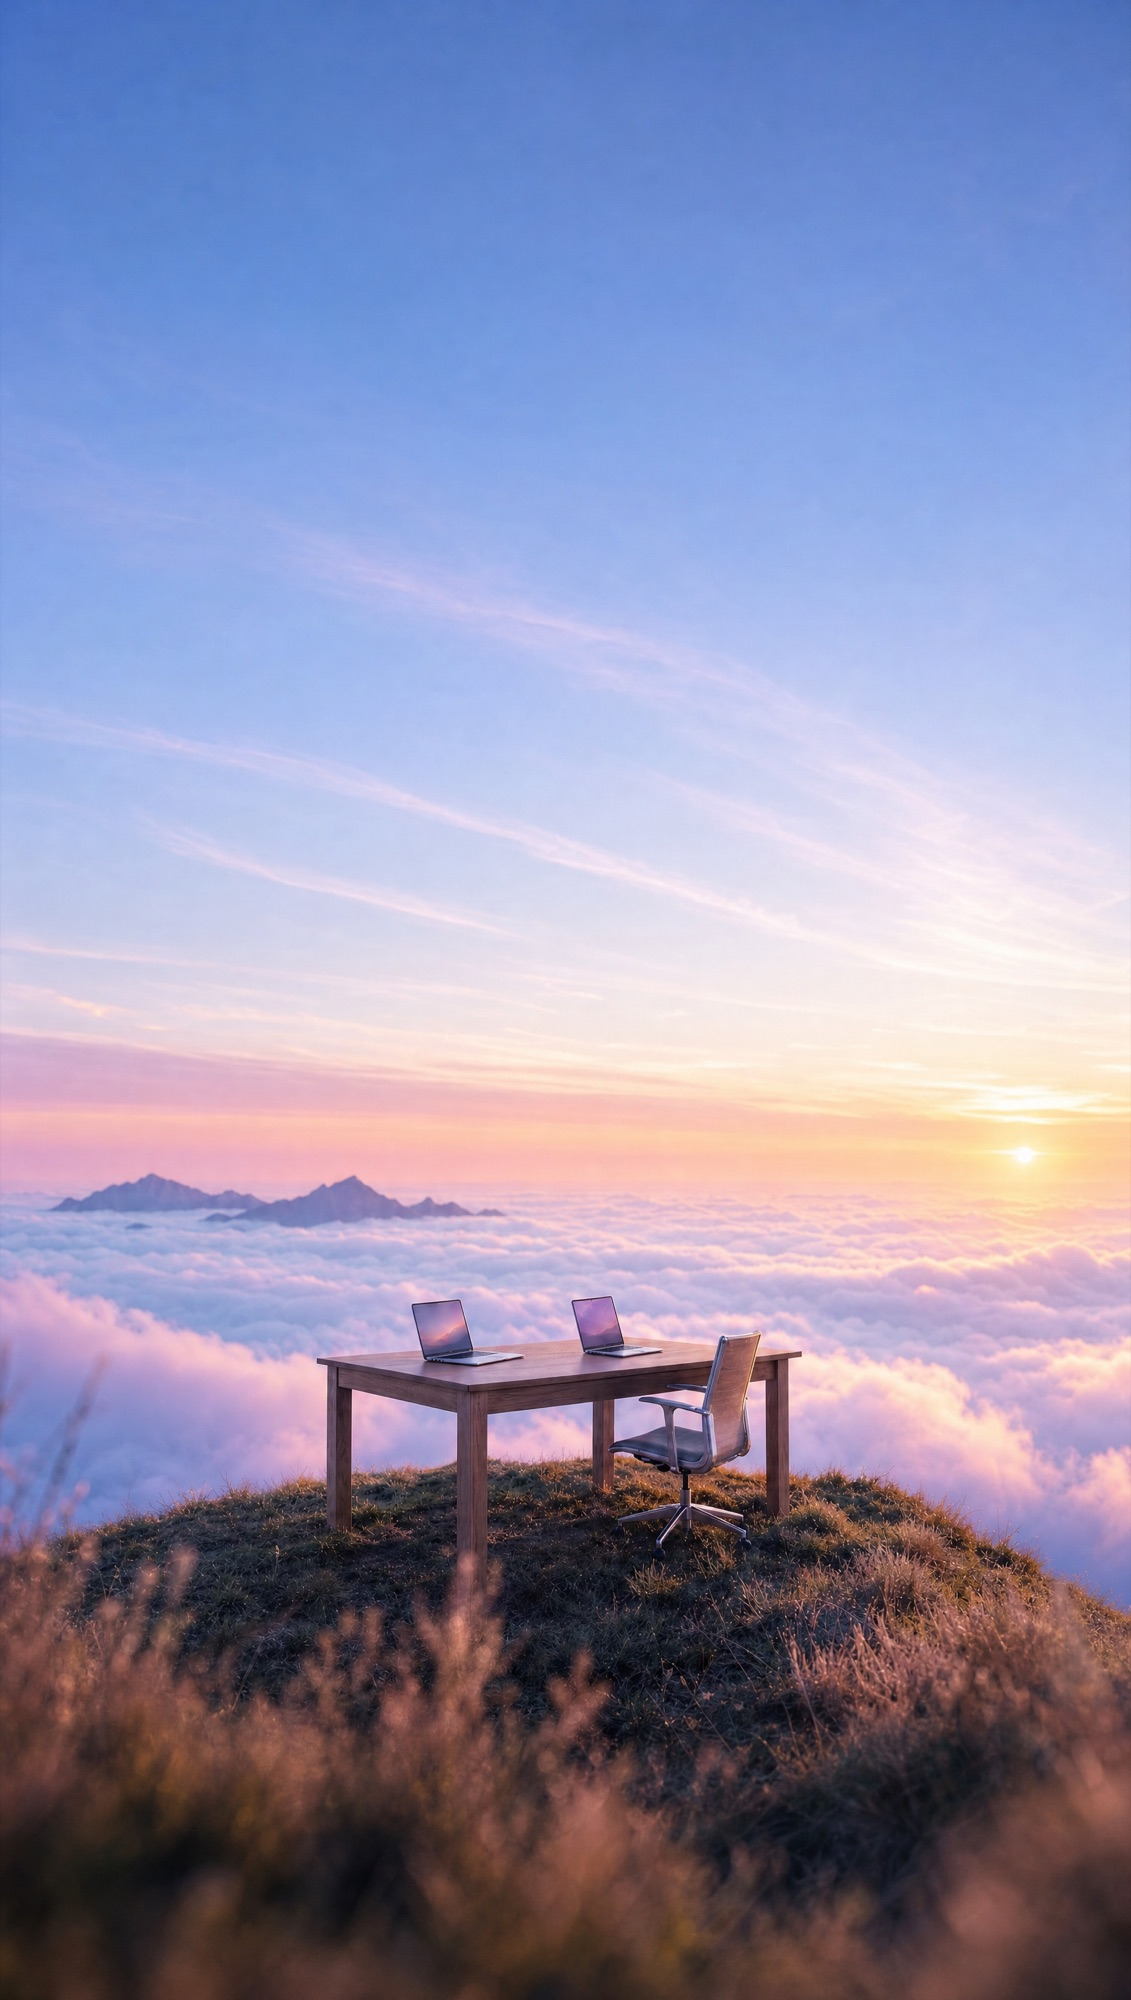
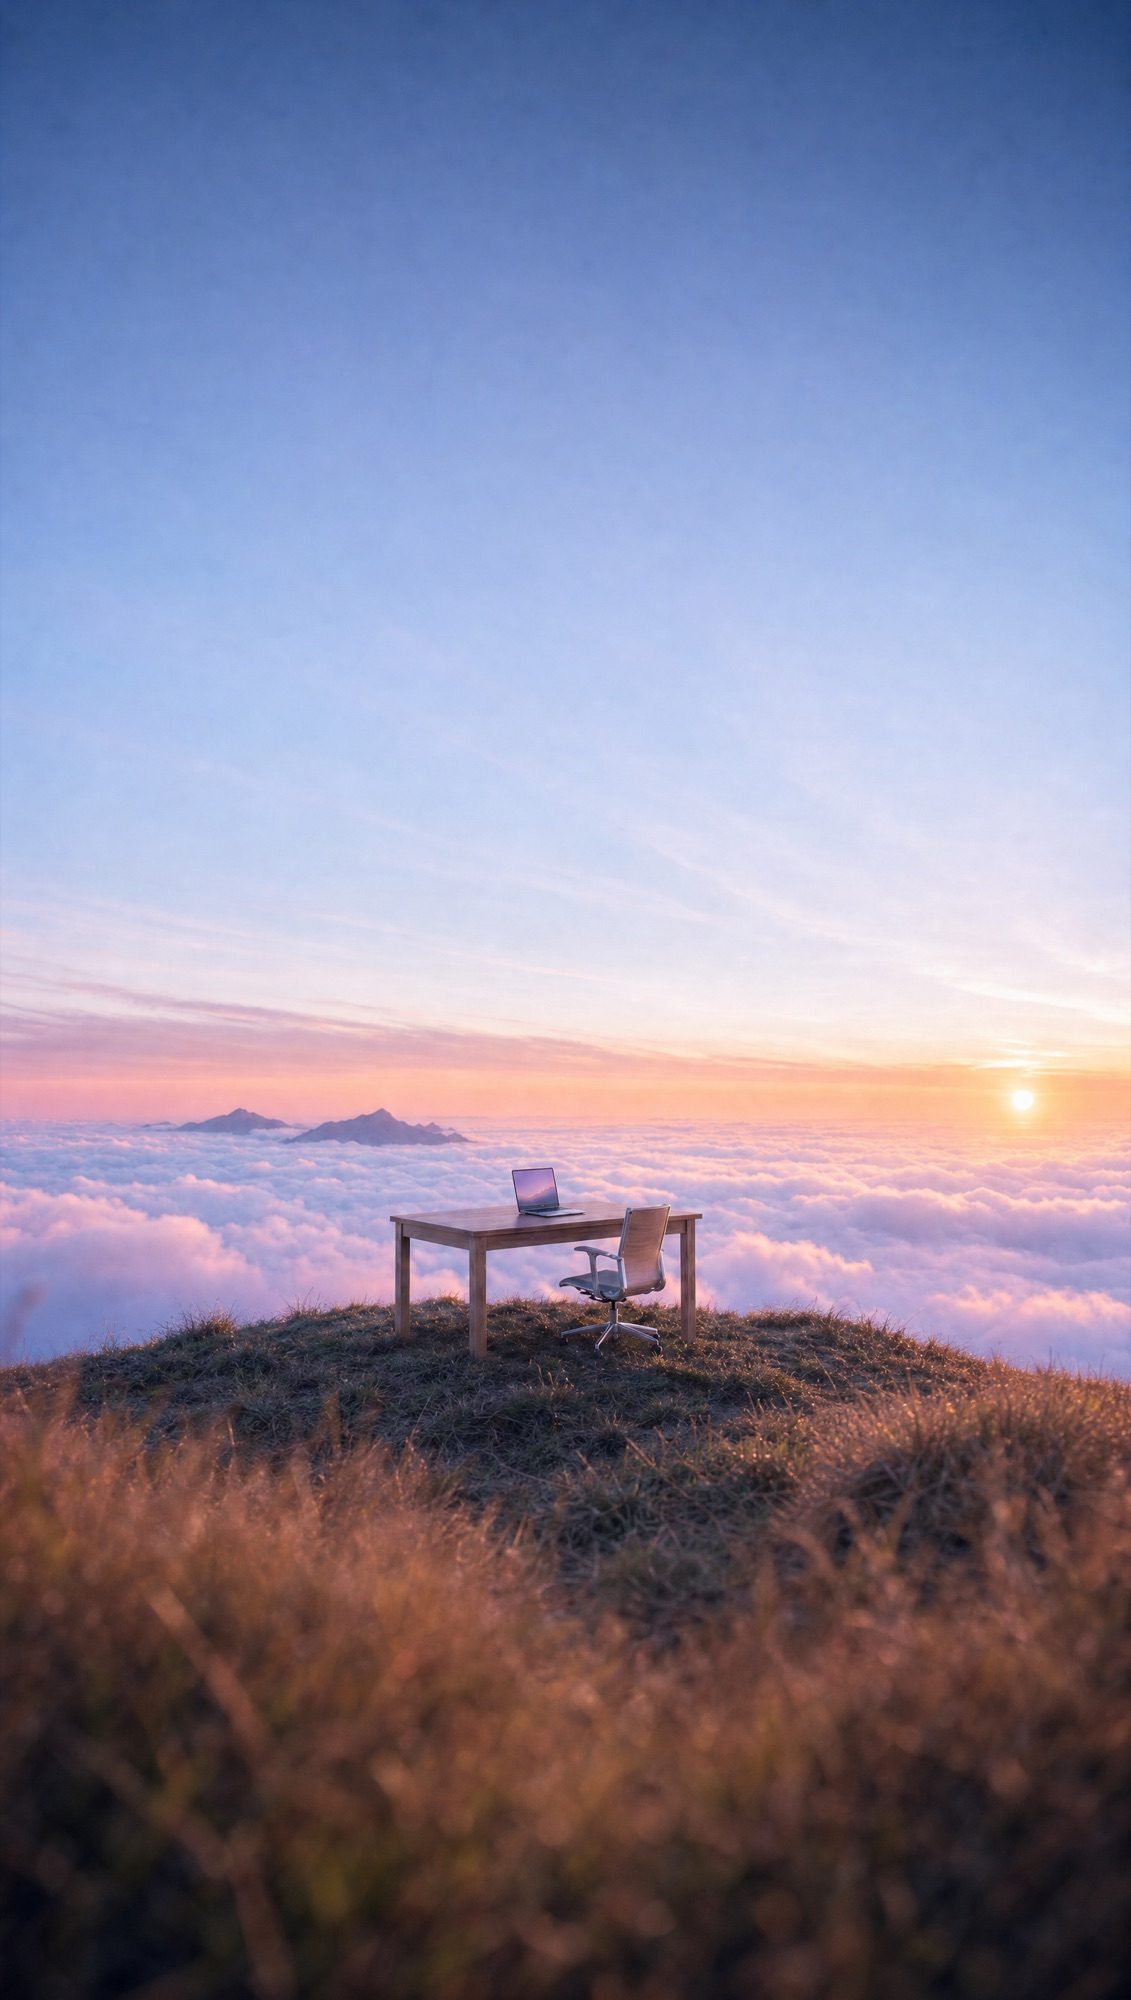
Use a wide single-laptop photo and send the lines up into the sky
The hero photo is now shot wider with one laptop. Lines leave the laptop sideways
and sweep up the sides of the frame into clouds in the upper sky, so they never
cross the headline. On phones they run along the screen edges.

diff --git a/site/index.html b/site/index.html
@@ -211,7 +211,7 @@
 
   /* ---------- photo hero (overrides) ---------- */
   .hero { height: 100vh; min-height: 760px; max-height: 1000px; background: #a9a6d6; }
-  .photo { position: absolute; inset: 0; background: url(hero.jpg) 46% 100% / cover no-repeat; }
+  .photo { position: absolute; inset: 0; background: url(hero.jpg) 50% 100% / cover no-repeat; }
   .photo::after { content: ""; position: absolute; inset: 0;
     background: linear-gradient(180deg, rgba(58, 64, 140, .5) 0%, rgba(80, 78, 160, .32) 38%, rgba(110, 90, 170, .12) 52%, transparent 62%); }
   .edge { position: absolute; top: 0; bottom: 0; width: 16%; z-index: 2; pointer-events: none;
@@ -373,60 +373,19 @@
 (() => {
   const cv = document.getElementById('sky'), ctx = cv.getContext('2d'), hero = cv.parentElement;
   const still = matchMedia('(prefers-reduced-motion: reduce)').matches;
-  // hero.jpg is 2688x1520, drawn like CSS "cover" at background-position 46% 100%.
-  // In image pixels: tops of the two laptop screens, and spots in the cloud sea they talk to.
-  // hero-mobile.jpg is the 1520x2688 original scaled to 1131x2000; coordinates stay in original pixels.
-  const SCENES = {
-    wide: { IW: 2688, IH: 1520, PX: .46, LAPTOPS: [[1050, 835], [1300, 828]],
-      TARGETS: [[180, 1180], [470, 990], [1880, 960], [2260, 1090], [2580, 1270]],
-      LINKS: [[0, 0], [0, 1], [0, 2], [1, 2], [1, 3], [1, 4]] },
-    tall: { IW: 1520, IH: 2688, PX: .5, LAPTOPS: [[591, 1752], [804, 1747]],
-      TARGETS: [[81, 1908], [336, 1693], [1210, 1680], [1452, 1922]],
-      LINKS: [[0, 0], [0, 1], [0, 2], [1, 2], [1, 3]] },
-  };
-  const PY = 1;
-  let IW, IH, PX, LAPTOPS, TARGETS, LINKS, scene;
-  let W, H, s, ox, oy, pulses = [], bloom = [], flash = [];
-  const map = ([x, y]) => ({ x: ox + x * s, y: oy + y * s });
-
-  function resize() {
-    const dpr = Math.min(devicePixelRatio || 1, 2);
-    W = hero.clientWidth; H = hero.clientHeight;
-    cv.width = W * dpr; cv.height = H * dpr; ctx.setTransform(dpr, 0, 0, dpr, 0, 0);
-    const next = W <= 700 ? 'tall' : 'wide';
-    if (next !== scene) {
-      scene = next; ({ IW, IH, PX, LAPTOPS, TARGETS, LINKS } = SCENES[scene]);
-      pulses = LINKS.flatMap((_, i) => [{ i, t: Math.random(), v: rand(.16, .26), up: true }, { i, t: Math.random(), v: rand(.12, .2), up: false }]);
-      bloom = TARGETS.map(() => 0); flash = LAPTOPS.map(() => 0);
-    }
-    s = Math.max(W / IW, H / IH); ox = (W - IW * s) * PX; oy = (H - IH * s) * PY;
-  }
   const rand = (a, b) => a + Math.random() * (b - a);
-  addEventListener('resize', resize); resize();
+  // The photo is drawn like CSS "cover" anchored at (PX, bottom). LAPTOP is the top of the laptop
+  // screen in original image pixels. CLOUDS are the sky clouds it talks to, as fractions of the hero,
+  // kept to the sides so the lines never cross the headline.
+  const SCENES = {
+    wide: { IW: 2688, IH: 1520, PX: .5, LAPTOP: [1310, 934],
+      CLOUDS: [[.1, .17, 300], [.2, .38, 230], [.8, .36, 240], [.9, .15, 320]], SIDE: .16 },
+    tall: { IW: 1520, IH: 2688, PX: .5, LAPTOP: [719, 1572],
+      CLOUDS: [[.03, .08, 170], [.97, .06, 180]], SIDE: .5 },
+  };
+  let scene, cfg, W, H, s, ox, oy, pulses = [], bloom = [], flash = 0, hubs = [];
 
-  // soft cloud wisps that drift along the horizon
-  function wisp(w) {
-    const h = Math.round(w * .4), c = document.createElement('canvas'); c.width = w; c.height = h;
-    const g = c.getContext('2d');
-    for (let i = 0; i < 22; i++) {
-      const t = Math.random(), x = w * (.1 + .8 * t), y = h * (.6 - .2 * Math.sin(t * Math.PI) * Math.random());
-      const r = Math.min(w * (.05 + .1 * Math.sin(t * Math.PI)), x, w - x, y, h - y);
-      const rg = g.createRadialGradient(x, y, 0, x, y, r);
-      rg.addColorStop(0, 'rgba(255,246,248,.5)'); rg.addColorStop(1, 'rgba(255,240,245,0)');
-      g.fillStyle = rg; g.beginPath(); g.arc(x, y, r, 0, 7); g.fill();
-    }
-    return c;
-  }
-  const wisps = Array.from({ length: 6 }, (_, i) => ({ img: wisp(300 + Math.random() * 400), x: Math.random(), y: .38 + Math.random() * .2, v: 4 + Math.random() * 6, a: .35 + Math.random() * .25 }));
-
-  // arc from a laptop up and over into the cloud sea
-  function point(a, b, t) {
-    const c = { x: (a.x + b.x) / 2, y: Math.min(a.y, b.y) - Math.abs(b.x - a.x) * .1 - 30 * s };
-    const u = 1 - t;
-    return { x: u * u * a.x + 2 * u * t * c.x + t * t * b.x, y: u * u * a.y + 2 * u * t * c.y + t * t * b.y };
-  }
-
-  // puffy clouds in the upper sky: sunlit tops, lavender undersides
+  // a cloud sprite: sunlit top, lavender underside
   function puff(w) {
     const h = Math.round(w * .55), c = document.createElement('canvas'); c.width = w; c.height = h;
     const g = c.getContext('2d');
@@ -435,7 +394,7 @@
       const y = h * (.66 - bump * .26 * Math.random());
       const r = Math.min(w * (.05 + .14 * bump * (.4 + .6 * Math.random())), x, w - x, y, h - y);
       const rg = g.createRadialGradient(x, y - r * .3, 0, x, y, r);
-      rg.addColorStop(0, 'rgba(255,250,250,.75)'); rg.addColorStop(.6, 'rgba(255,244,248,.28)'); rg.addColorStop(1, 'rgba(255,240,245,0)');
+      rg.addColorStop(0, 'rgba(255,250,250,.8)'); rg.addColorStop(.6, 'rgba(255,244,248,.3)'); rg.addColorStop(1, 'rgba(255,240,245,0)');
       g.fillStyle = rg; g.beginPath(); g.arc(x, y, r, 0, 7); g.fill();
     }
     g.globalCompositeOperation = 'source-atop';
@@ -444,43 +403,75 @@
     g.fillStyle = sh; g.fillRect(0, 0, w, h);
     return c;
   }
-  const puffs = Array.from({ length: 7 }, (_, i) => ({ img: puff(220 + Math.random() * 300), x: i / 7 + Math.random() * .08, y: .06 + Math.random() * .26, v: 3 + Math.random() * 5, a: .5 + Math.random() * .3 }));
 
-  let last = performance.now();
+  function resize() {
+    const dpr = Math.min(devicePixelRatio || 1, 2);
+    W = hero.clientWidth; H = hero.clientHeight;
+    cv.width = W * dpr; cv.height = H * dpr; ctx.setTransform(dpr, 0, 0, dpr, 0, 0);
+    const next = W <= 700 ? 'tall' : 'wide';
+    if (next !== scene) {
+      scene = next; cfg = SCENES[scene];
+      hubs = cfg.CLOUDS.map(([x, y, w]) => ({ x, y, img: puff(w), phase: Math.random() * 6 }));
+      pulses = hubs.flatMap((_, i) => [{ i, t: Math.random(), v: rand(.16, .26), up: true }, { i, t: Math.random(), v: rand(.12, .2), up: false }]);
+      bloom = hubs.map(() => 0);
+    }
+    s = Math.max(W / cfg.IW, H / cfg.IH); ox = (W - cfg.IW * s) * cfg.PX; oy = H - cfg.IH * s;
+  }
+  addEventListener('resize', resize); resize();
+
+  // drifting clouds: puffy ones up high, flat wisps near the horizon
+  const drifting = [
+    ...Array.from({ length: 6 }, (_, i) => ({ img: puff(200 + Math.random() * 260), x: i / 6 + Math.random() * .08, y: .08 + Math.random() * .3, v: 3 + Math.random() * 5, a: .45 + Math.random() * .3, fadeMid: true })),
+    ...Array.from({ length: 5 }, () => ({ img: puff(360 + Math.random() * 300), x: Math.random(), y: .5 + Math.random() * .12, v: 5 + Math.random() * 6, a: .22 + Math.random() * .15, fadeMid: false })),
+  ];
+
+  // the line leaves the laptop sideways, then sweeps up the side of the frame into the cloud
+  function point(a, b, t) {
+    const dir = Math.sign(b.x - a.x) || 1;
+    const p1 = { x: a.x + dir * W * cfg.SIDE, y: a.y - H * .02 }, p2 = { x: b.x, y: b.y + H * .28 };
+    const u = 1 - t;
+    return { x: u*u*u*a.x + 3*u*u*t*p1.x + 3*u*t*t*p2.x + t*t*t*b.x, y: u*u*u*a.y + 3*u*u*t*p1.y + 3*u*t*t*p2.y + t*t*t*b.y };
+  }
+  const glow = (pt, r, k, rgb) => {
+    const g = ctx.createRadialGradient(pt.x, pt.y, 0, pt.x, pt.y, r);
+    g.addColorStop(0, `rgba(${rgb},${k})`); g.addColorStop(1, `rgba(${rgb},0)`);
+    ctx.globalAlpha = 1; ctx.fillStyle = g; ctx.beginPath(); ctx.arc(pt.x, pt.y, r, 0, 7); ctx.fill();
+  };
+
+  let last = performance.now(), time = 0;
   function frame(now) {
-    const dt = Math.min((now - last) / 1000, .05); last = now;
+    const dt = Math.min((now - last) / 1000, .05); last = now; time += dt;
     ctx.clearRect(0, 0, W, H);
+    const k = W <= 700 ? .6 : 1, span = W + 800;
 
-    const span = W + 800;
-    puffs.forEach(w => {
-      if (!still) { w.x += w.v * dt / span; if (w.x > 1) w.x -= 1; }
-      const sc = W <= 700 ? .6 : 1, iw = w.img.width * sc, ih = w.img.height * sc;
-      const cx = w.x * span - 400, keep = Math.min(1, Math.max(.3, Math.abs(cx - W / 2) / (W * .32)));
-      ctx.globalAlpha = w.a * keep; ctx.drawImage(w.img, cx - iw / 2, w.y * H - ih / 2, iw, ih);
+    drifting.forEach(d => {
+      if (!still) { d.x += d.v * dt / span; if (d.x > 1) d.x -= 1; }
+      const iw = d.img.width * k, ih = d.img.height * k, cx = d.x * span - 400;
+      const keep = d.fadeMid ? Math.min(1, Math.max(.3, Math.abs(cx - W / 2) / (W * .32))) : 1;
+      ctx.globalAlpha = d.a * keep; ctx.drawImage(d.img, cx - iw / 2, d.y * H - ih / 2, iw, ih);
     });
-    wisps.forEach(w => {
-      if (!still) { w.x += w.v * dt / span; if (w.x > 1) w.x -= 1; }
-      ctx.globalAlpha = w.a; ctx.drawImage(w.img, w.x * span - 400 - w.img.width / 2, w.y * H - w.img.height / 2);
-    });
+
+    const lap = { x: ox + cfg.LAPTOP[0] * s, y: oy + cfg.LAPTOP[1] * s };
+    const hp = hubs.map(h => ({ x: h.x * W, y: h.y * H + Math.sin(time * .5 + h.phase) * 5 }));
+    const end = i => ({ x: hp[i].x, y: hp[i].y + 14 * k });
 
     ctx.globalCompositeOperation = 'lighter';
-    LINKS.forEach(([l, t]) => {
-      const a = map(LAPTOPS[l]), b = map(TARGETS[t]);
-      ctx.globalAlpha = .5; ctx.lineWidth = 1; ctx.strokeStyle = 'rgba(255,255,255,.55)';
+    hubs.forEach((_, i) => {
+      const a = lap, b = end(i);
+      ctx.globalAlpha = .5; ctx.lineWidth = 1; ctx.strokeStyle = 'rgba(255,255,255,.6)';
       ctx.beginPath(); ctx.moveTo(a.x, a.y);
-      for (let k = 1; k <= 40; k++) { const p = point(a, b, k / 40); ctx.lineTo(p.x, p.y); }
+      for (let n = 1; n <= 60; n++) { const p = point(a, b, n / 60); ctx.lineTo(p.x, p.y); }
       ctx.stroke();
     });
-
     pulses.forEach(p => {
-      const [l, t] = LINKS[p.i], a = map(LAPTOPS[l]), b = map(TARGETS[t]);
+      const a = lap, b = end(p.i);
       if (!still) p.t += p.v * dt;
-      if (p.t >= 1) { p.t = 0; p.v = rand(.12, .26); if (p.up) bloom[t] = 1; else flash[l] = 1; }
+      if (p.t >= 1) { p.t = 0; p.v = rand(.12, .26); if (p.up) bloom[p.i] = 1; else flash = 1; }
       const tt = p.up ? p.t : 1 - p.t, fade = Math.sin(Math.PI * p.t);
-      for (let k = 0; k < 16; k++) {
-        const ss = p.up ? tt - .14 * k / 16 : tt + .14 * k / 16;
+      for (let n = 0; n < 16; n++) {
+        const ss = p.up ? tt - .12 * n / 16 : tt + .12 * n / 16;
         if (ss < 0 || ss > 1) continue;
-        const q = point(a, b, ss), f = 1 - k / 16;
+        const q = point(a, b, ss), f = 1 - n / 16;
         ctx.globalAlpha = fade * f * .55; ctx.fillStyle = p.up ? '#ffffff' : '#ffd6c4';
         ctx.beginPath(); ctx.arc(q.x, q.y, 1.2 + f * 1.4, 0, 7); ctx.fill();
       }
@@ -489,15 +480,14 @@
       g.addColorStop(1, p.up ? 'rgba(170,180,255,0)' : 'rgba(255,170,150,0)');
       ctx.globalAlpha = fade; ctx.fillStyle = g; ctx.beginPath(); ctx.arc(q.x, q.y, 14, 0, 7); ctx.fill();
     });
+    hubs.forEach((h, i) => { bloom[i] *= Math.pow(.3, dt); glow(hp[i], h.img.width * k * .6, .12 + .4 * bloom[i], '255,236,228'); });
+    flash *= Math.pow(.15, dt); glow({ x: lap.x, y: lap.y + 12 * s }, 50 * k, .1 + .55 * flash, '235,225,255');
 
-    // the cloud lights up where a task lands; the laptop screen glows when an answer returns
-    const glow = (pt, r, k, rgb) => {
-      const g = ctx.createRadialGradient(pt.x, pt.y, 0, pt.x, pt.y, r);
-      g.addColorStop(0, `rgba(${rgb},${k})`); g.addColorStop(1, `rgba(${rgb},0)`);
-      ctx.globalAlpha = 1; ctx.fillStyle = g; ctx.beginPath(); ctx.arc(pt.x, pt.y, r, 0, 7); ctx.fill();
-    };
-    TARGETS.forEach((t, i) => { bloom[i] *= Math.pow(.3, dt); glow(map(t), 90 * s / .6, .1 + .45 * bloom[i], '255,236,228'); });
-    LAPTOPS.forEach((l, i) => { flash[i] *= Math.pow(.15, dt); const p = map(l); p.y += 22 * s; glow(p, 40 * s / .6, .08 + .5 * flash[i], '235,225,255'); });
+    // the clouds sit on top of the line ends, and brighten when a task lands
+    ctx.globalCompositeOperation = 'source-over';
+    hubs.forEach((h, i) => { const iw = h.img.width * k, ih = h.img.height * k; ctx.globalAlpha = .95; ctx.drawImage(h.img, hp[i].x - iw / 2, hp[i].y - ih / 2, iw, ih); });
+    ctx.globalCompositeOperation = 'lighter';
+    hubs.forEach((h, i) => { const iw = h.img.width * k, ih = h.img.height * k; ctx.globalAlpha = .35 * bloom[i]; ctx.drawImage(h.img, hp[i].x - iw / 2, hp[i].y - ih / 2, iw, ih); });
     ctx.globalCompositeOperation = 'source-over'; ctx.globalAlpha = 1;
     if (!still) requestAnimationFrame(frame);
   }
